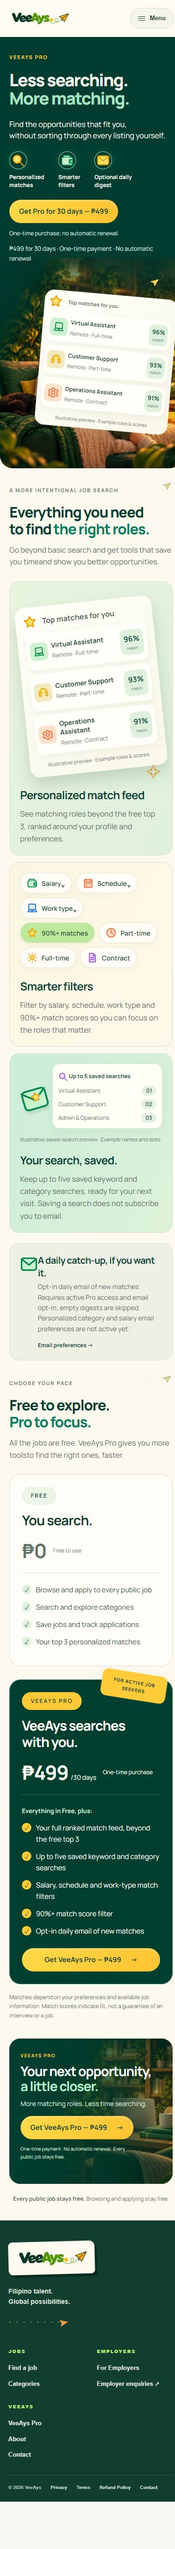
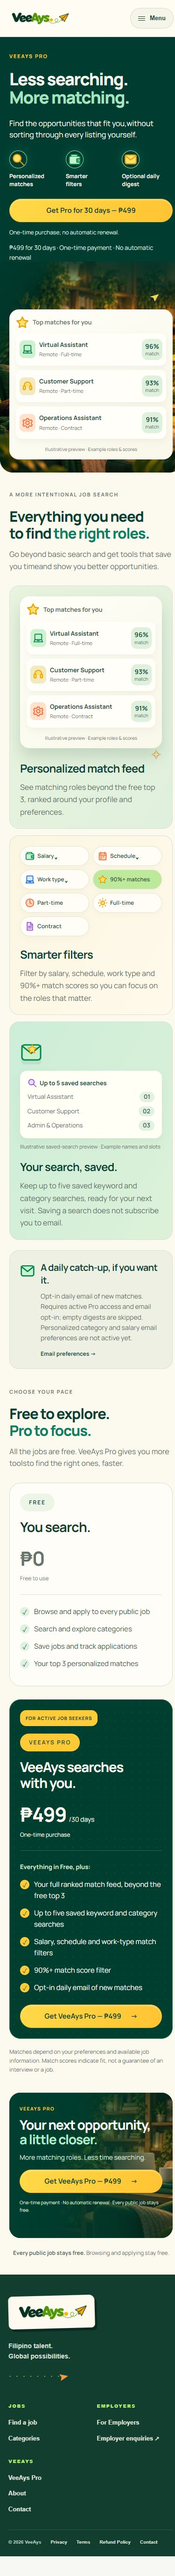
Align Pro previews, cards and controls on mobile

diff --git a/public/pro-premium.css b/public/pro-premium.css
@@ -156,3 +156,62 @@
 .pro-premium .pro-premium-scene .pro-ui-job strong{font-size:12px}.pro-premium .pro-premium-scene .pro-ui-job div>span{font-size:11px}.pro-premium .pro-premium-scene .pro-demo-caption{font-size:10px}
 }
 .pro-premium .pro-benefit-grid .pro-example-label{font-size:11px;line-height:1.5}
+/* Mobile alignment: one content rail, stable preview columns and native text flow. */
+@media(max-width:700px){
+  .pro-premium .pro-premium-grid{min-height:0;gap:28px;padding-block:32px 28px}
+  .pro-premium .pro-premium-copy{min-width:0}
+  .pro-premium .pro-premium-copy>.pro-premium-lead br{display:none}
+  .pro-premium .pro-hero-perks{display:grid;grid-template-columns:repeat(3,minmax(0,1fr));gap:12px}
+  .pro-premium .pro-hero-perks li{min-width:0}
+  .pro-premium .pro-premium-purchase,.pro-premium .pro-premium-copy>.pro-premium-reassurance{max-width:none;width:100%}
+  .pro-premium .pro-premium-purchase .button{width:100%}
+  .pro-premium .pro-premium-scene{align-items:center;min-height:360px;padding:36px 0 0;justify-content:flex-end}
+  .pro-premium .pro-premium-scene>.pro-flight{align-self:flex-end}
+  .pro-premium .pro-premium-scene .pro-demo-feed,.pro-premium .pro-benefit-feed .pro-demo-feed{transform:none;max-width:none;width:100%;margin:0;padding:14px}
+  .pro-premium .pro-benefit-feed .pro-benefit-visual{padding:0 0 28px}
+  .pro-premium .pro-demo-feed .pro-ui-job{display:grid;grid-template-columns:34px minmax(0,1fr) 44px;gap:8px;padding:12px 8px;margin-right:0;align-items:center}
+  .pro-premium .pro-demo-feed .pro-ui-icon{width:34px;height:38px;padding:6px}
+  .pro-premium .pro-demo-feed .pro-ui-job>b{padding:7px 3px;text-align:center;font-size:14px;line-height:1.3}
+  .pro-premium .pro-demo-feed .pro-ui-job small{font-size:10px}
+  .pro-premium .pro-demo-feed .pro-ui-job strong{font-size:13px;line-height:1.4;overflow-wrap:normal}
+  .pro-premium .pro-demo-feed .pro-ui-job div>span{font-size:11px;line-height:1.5}
+  .pro-premium .pro-demo-feed>p{font-size:13px;gap:8px}
+  .pro-premium .pro-demo-caption{font-size:10px;line-height:1.6}
+  .pro-premium .pro-doodle{right:0;bottom:0;font-size:30px;line-height:1}
+  .pro-premium .pro-section-heading{display:block}
+  .pro-premium .pro-section-heading>.pro-flight{display:none}
+  .pro-premium .pro-visual-focus{display:grid;grid-template-columns:repeat(2,minmax(0,1fr));gap:8px;padding-bottom:24px}
+  .pro-premium .pro-visual-focus span,.pro-premium .pro-visual-focus b{min-width:0;padding:10px;gap:6px;font-size:12px;line-height:1.5}
+  .pro-premium .pro-visual-focus .pro-icon{width:20px;height:20px}
+  .pro-premium .pro-saved-demo{display:grid;grid-template-columns:1fr;gap:12px;margin:0 0 16px;max-width:none}
+  .pro-premium .pro-envelope{width:48px;transform:none}
+  .pro-premium .pro-envelope>.pro-icon{width:48px;height:48px}
+  .pro-premium .pro-envelope>b{top:30%;left:32%}
+  .pro-premium .pro-saved-demo>div{width:100%;min-width:0;padding:16px}
+  .pro-premium .pro-saved-demo strong{display:flex;align-items:center;gap:6px;font-size:13px}
+  .pro-premium .pro-saved-demo p{display:grid;grid-template-columns:minmax(0,1fr) auto;gap:8px;font-size:13px}
+  .pro-premium .pro-premium-digest{display:grid;grid-template-columns:32px minmax(0,1fr);align-items:start;gap:12px;padding:22px}
+  .pro-premium .pro-premium-digest>span>.pro-icon{width:32px;height:32px}
+  .pro-premium .pro-premium-digest>div{min-width:0}
+  .pro-premium .pro-premium-digest h3{margin:0 0 10px}
+  .pro-premium .pro-premium-digest p{margin:0}
+  .pro-premium .pro-premium-digest a{grid-column:2;margin:0;justify-self:start;white-space:normal}
+  .pro-premium .pro-plan-note{position:static;display:block;transform:none;max-width:none;width:fit-content;margin:0 0 16px;padding:9px 12px}
+  .pro-premium .pro-plan-paper{padding:22px}
+  .pro-premium .pro-plan-price{align-items:flex-start;flex-direction:column;gap:8px}
+  .pro-premium .pro-plan-price strong{display:block;line-height:1.2}
+  .pro-premium .pro-plan-benefits li:before{top:2px}
+  .pro-premium .pro-premium-close{padding:26px 22px}
+  .pro-premium .pro-premium-close>div{width:100%;min-width:0}
+  .pro-premium .pro-premium-close .button{width:100%}
+  .pro-premium .pro-premium-close .pro-close-terms{max-width:none}
+}
+.pro-premium .pro-section-heading h2 br{display:initial}
+@media(max-width:360px){
+  .pro-premium .pro-benefit-grid article{padding:18px}
+  .pro-premium .pro-premium-scene .pro-demo-feed,.pro-premium .pro-benefit-feed .pro-demo-feed{padding:8px}
+  .pro-premium .pro-demo-feed .pro-ui-job{grid-template-columns:26px minmax(0,1fr) 40px;gap:6px;padding:10px 4px}
+  .pro-premium .pro-demo-feed .pro-ui-icon{width:26px;padding:3px}
+  .pro-premium .pro-demo-feed .pro-ui-job strong{font-size:12px}
+  .pro-premium .pro-demo-feed .pro-ui-job div>span{font-size:10px}
+}

diff --git a/docs/pro-typography-icons.md b/docs/pro-typography-icons.md
@@ -11,3 +11,9 @@ Validation: 40 focused tests passed (pro-premium, pro-checkout, pro-live, pro-di
 Changes are limited to Pro rendering, Pro CSS, the font, and review evidence. No auth/CAPTCHA, logo assets, payment code, database, worker, schedule or configuration changes. Smart Alerts remains untouched/paused; no production mutation, merge or deployment.
 
 Font source: https://github.com/google/fonts/blob/main/ofl/manrope/Manrope%5Bwght%5D.ttf ; existing public/fonts/Manrope-OFL.txt applies.
+
+## Mobile alignment follow-up
+
+Mobile-only CSS straightens both match previews, uses stable icon/title/score columns, gives hero perks equal columns and purchase controls the content width, regularizes filter chips into two columns, stacks the saved-search illustration above its example panel, aligns the digest link with its text, and moves the floating plan note into normal flow. Plan prices and closing controls share consistent edges. Additional compact preview spacing applies below 360px. Desktop composition stays unchanged.
+
+Rechecked at 320/375/390/430: no internally overflowing Pro elements or horizontal page overflow. At 768/1440 no page overflow; existing desktop rotated artwork retains intentional local visual overflow. Checkout associations remain /pro/checkout with controls >=48px. All 40 focused tests and dry-run build pass again. Updated mobile screenshot and mobile-benefits detail included. No merge or deployment.
